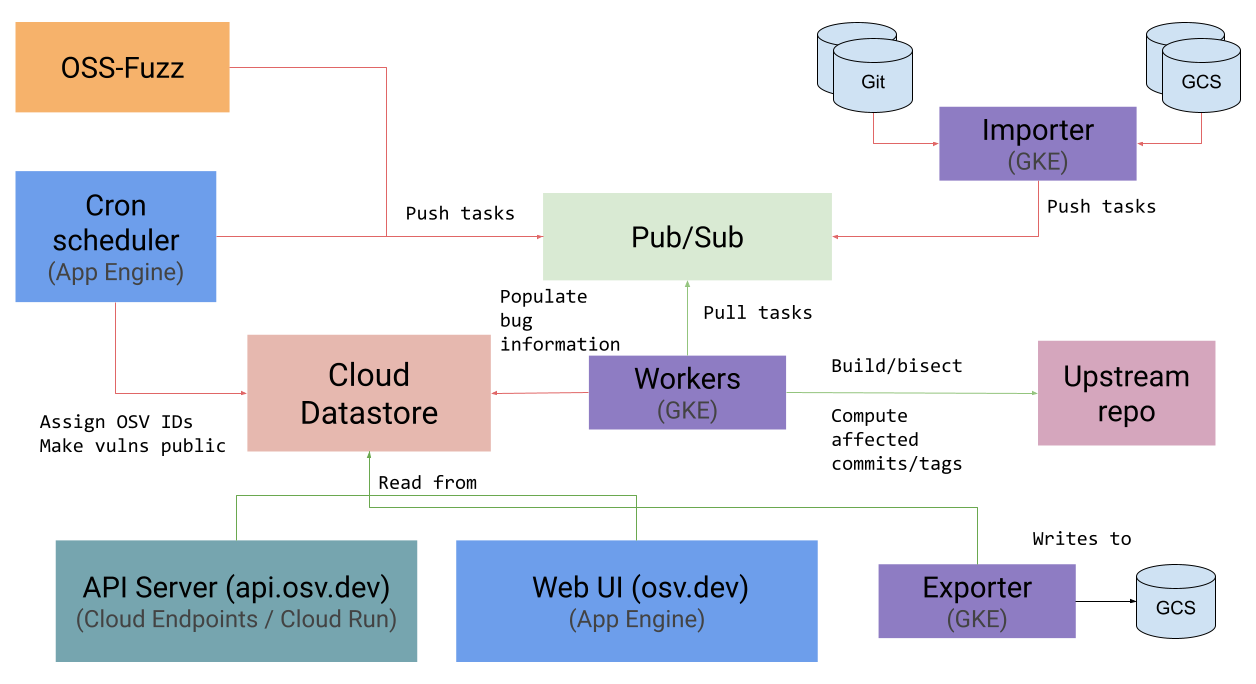
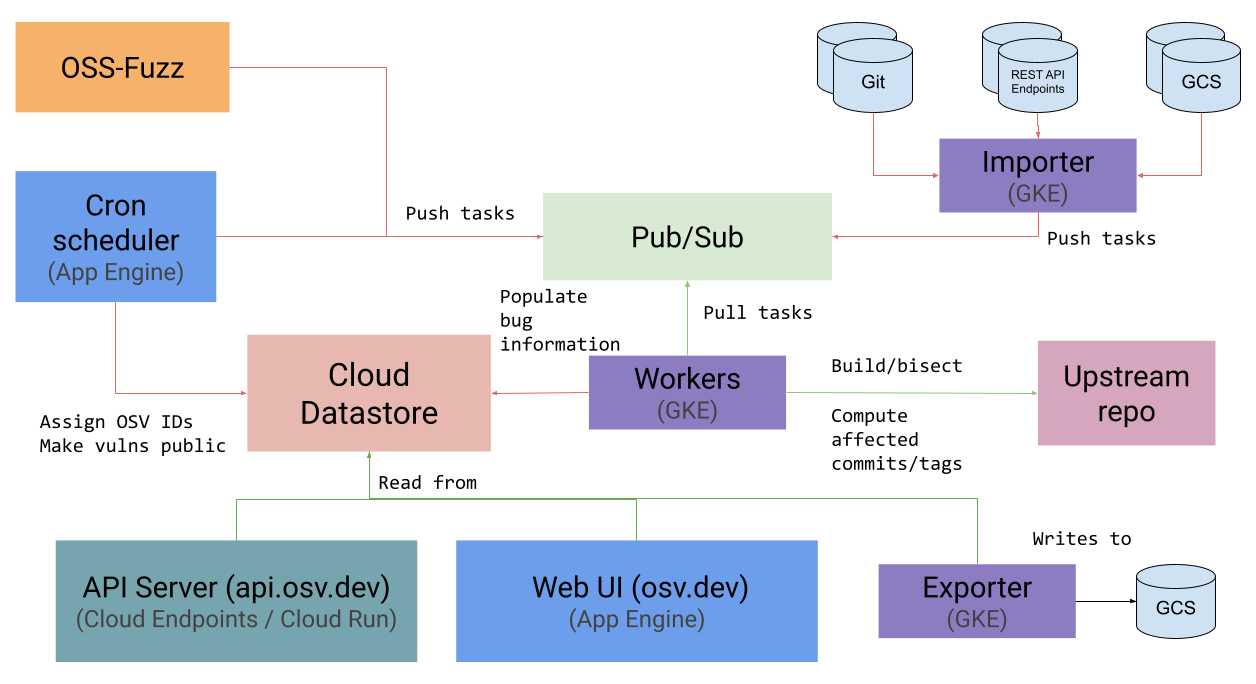
Update docs to reflect data source changes

Changed region(s): [[0.7452, 0.0307, 0.9315, 0.3684], [0.2795, 0.7061, 0.4968, 0.7368]]

diff --git a/docs/contributing/rest-api-contribution.md b/docs/contributing/rest-api-contribution.md
@@ -1,0 +1,39 @@
+---
+layout: page
+title: Contributing Data from REST API
+permalink: /rest-api-contribution/
+nav_order: 2
+parent: Contributing
+---
+# Contributing Data from REST API
+
+Contributing data can be supplied either through a public Git repository, a public GCS bucket or to REST API endpoints. The below guidelines are for contributing data through REST API endpoints.
+
+To contribute, we will need to know the following information:
+
+### 1. A url pointing to a REST Endpoint containing at least all of the vulnerabilities' IDs and date modified:
+
+**For example:** ``https://osv.dev/advisories/all.json``
+```json
+{
+ "id": "OSV-CVE-2020-1111",
+ "modified": "2023-12-04T10:12:08.00Z",
+},{
+ "id": "OSV-CVE-2020-1112",
+ "modified": "2023-12-04T10:16:25.00Z"
+}
+```
+The endpoint may contain more information, but at a minimum it must contain the ID and modified date of each vulnerability.
+
+### 2. The base url of the endpoints: 
+This is the base url for which the full, individual vulnerability endpoints will be appended to.
+
+**For example:** ``https://osv.dev/advisories/``
+
+Full vulnerability information in the osv format should be posted at the endpoint that matches their ID after the base url:  ``https://{base_url}/{id}.json``
+
+**For example:** ``https://osv.dev/advisories/OSV-CVE-2020-1111.json``
+
+### 3. The extension used for the individual vulnerability endpoints:
+The ``.json`` extension is preferred, but discuss in your issue if you need to use a different extension.
+

diff --git a/docs/data.md b/docs/data.md
@@ -106,3 +106,8 @@ gsutil cp gs://osv-vulnerabilities/PyPI/all.zip .
 
 A list of all current ecosystems is available at
 [`gs://osv-vulnerabilities/ecosystems.txt`](https://osv-vulnerabilities.storage.googleapis.com/ecosystems.txt)
+
+## Contributing Data
+If you a work with a project such as a Linux distribution and would like to contribute your security advisories, please follow the steps outlined in [CONTRIBUTING.md](https://github.com/google/osv.dev/blob/master/CONTRIBUTING.md#contributing-data)
+
+Data can be supplied either through a public Git repository, a public GCS bucket or to [REST API endpoints](contributing/rest-api-contribution.md).

diff --git a/CONTRIBUTING.md b/CONTRIBUTING.md
@@ -134,8 +134,8 @@ contribute your security advisories, please follow these steps.
 2.  Refer to the [OSV Schema](https://ossf.github.io/osv-schema/) documentation
     for information on how to properly format the data so it can be accepted.
 
-3.  Data can be supplied either through a public Git repository or a public GCS
-    bucket.
+3.  Data can be supplied either through a public Git repository, a public GCS
+    bucket or to [REST API endpoints](https://google.github.io/osv.dev/rest-api-contribution/).
 
 ## Contributing documentation
 
